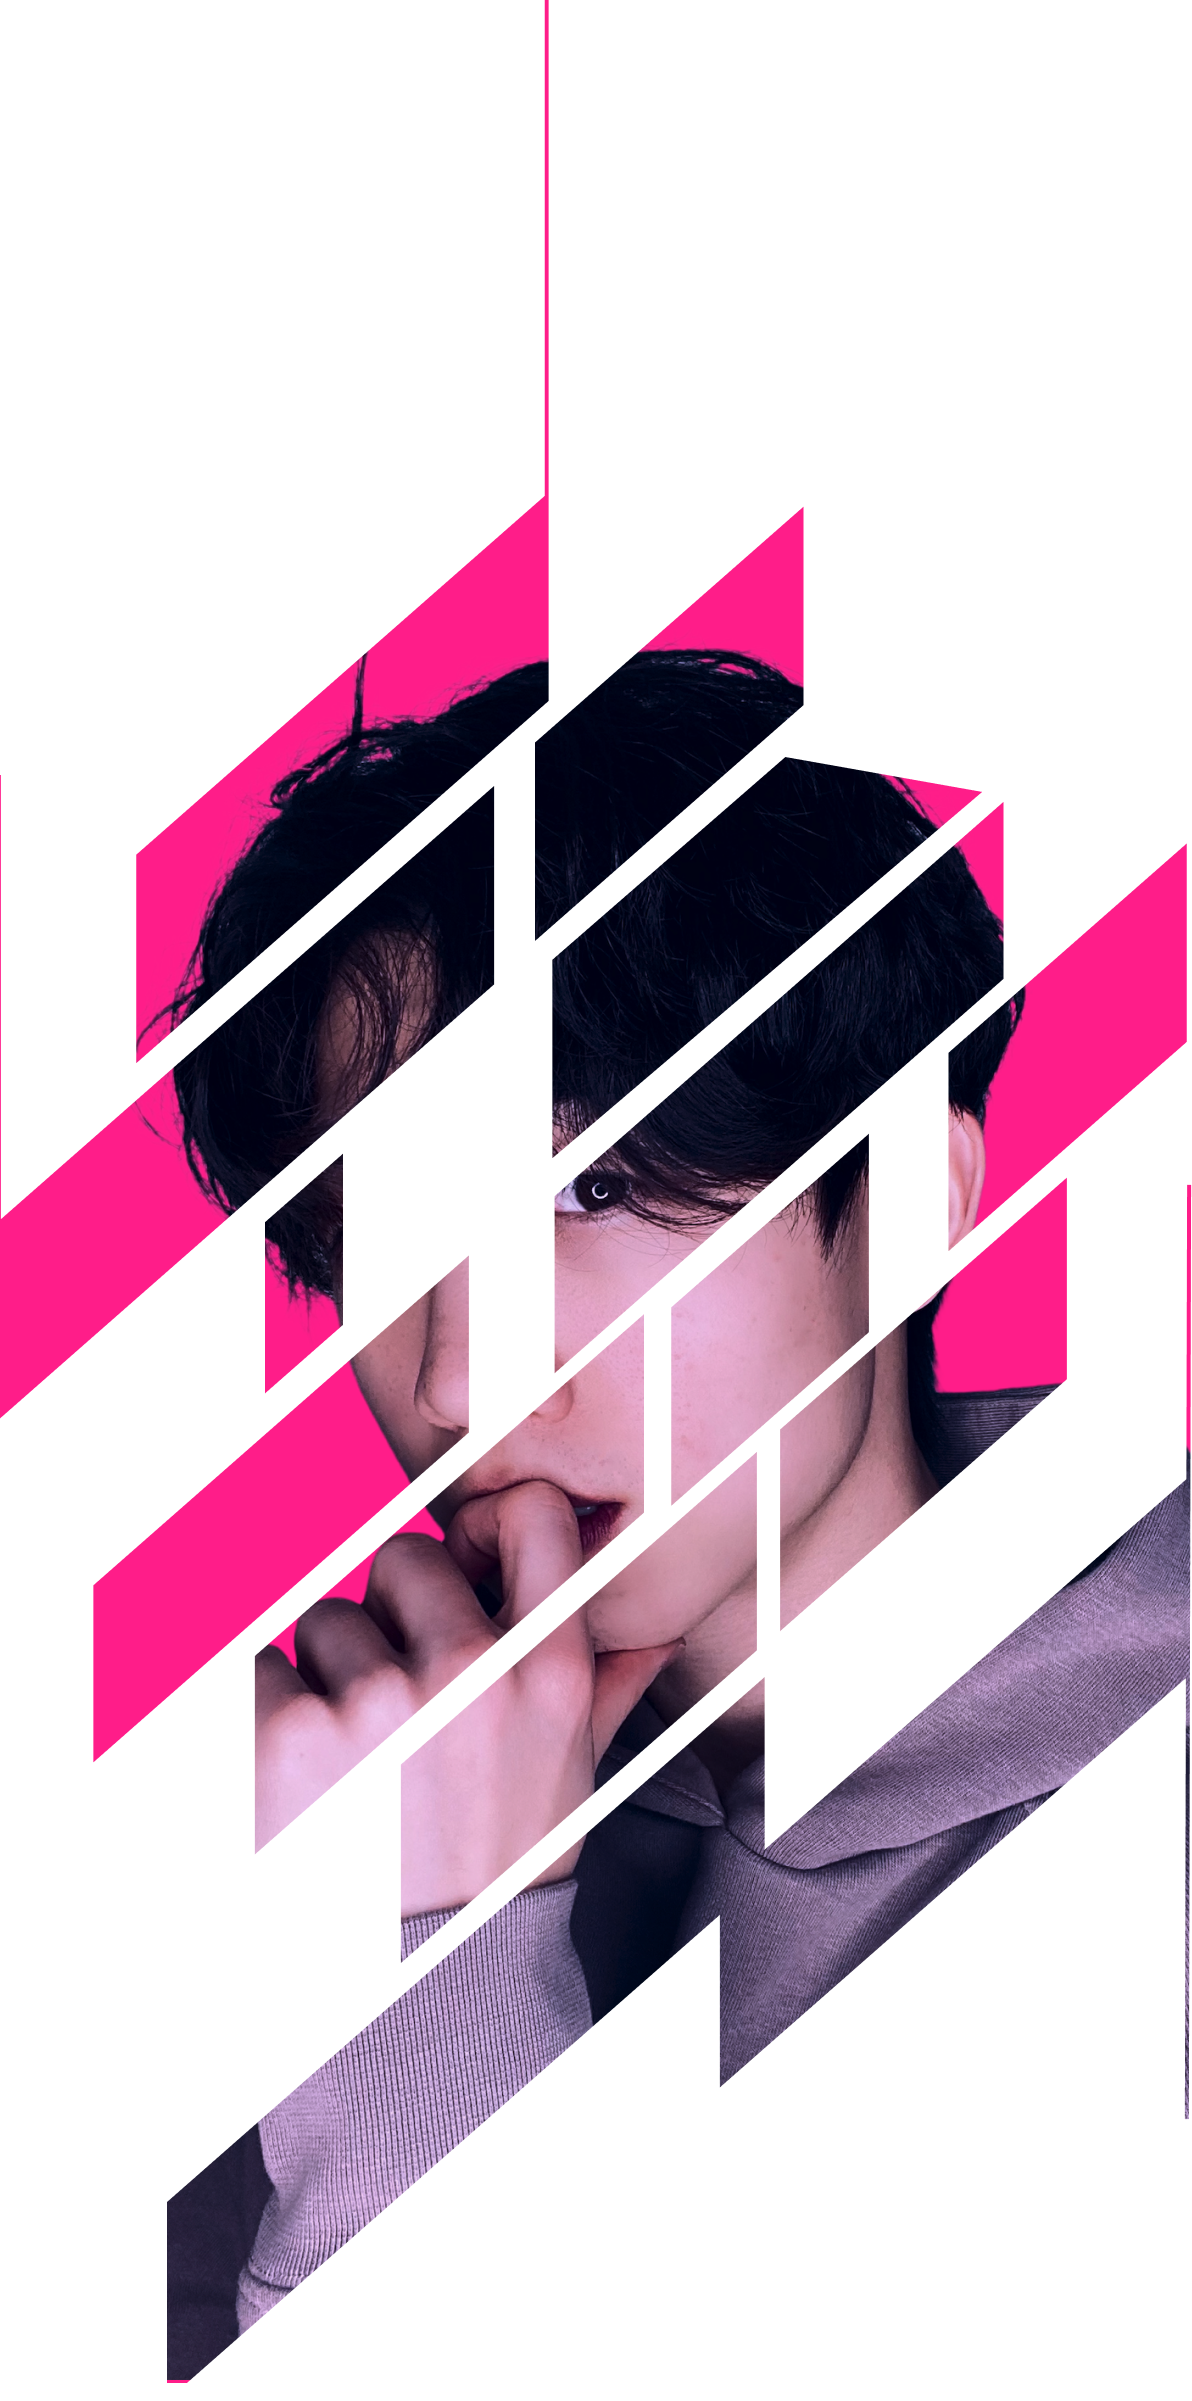
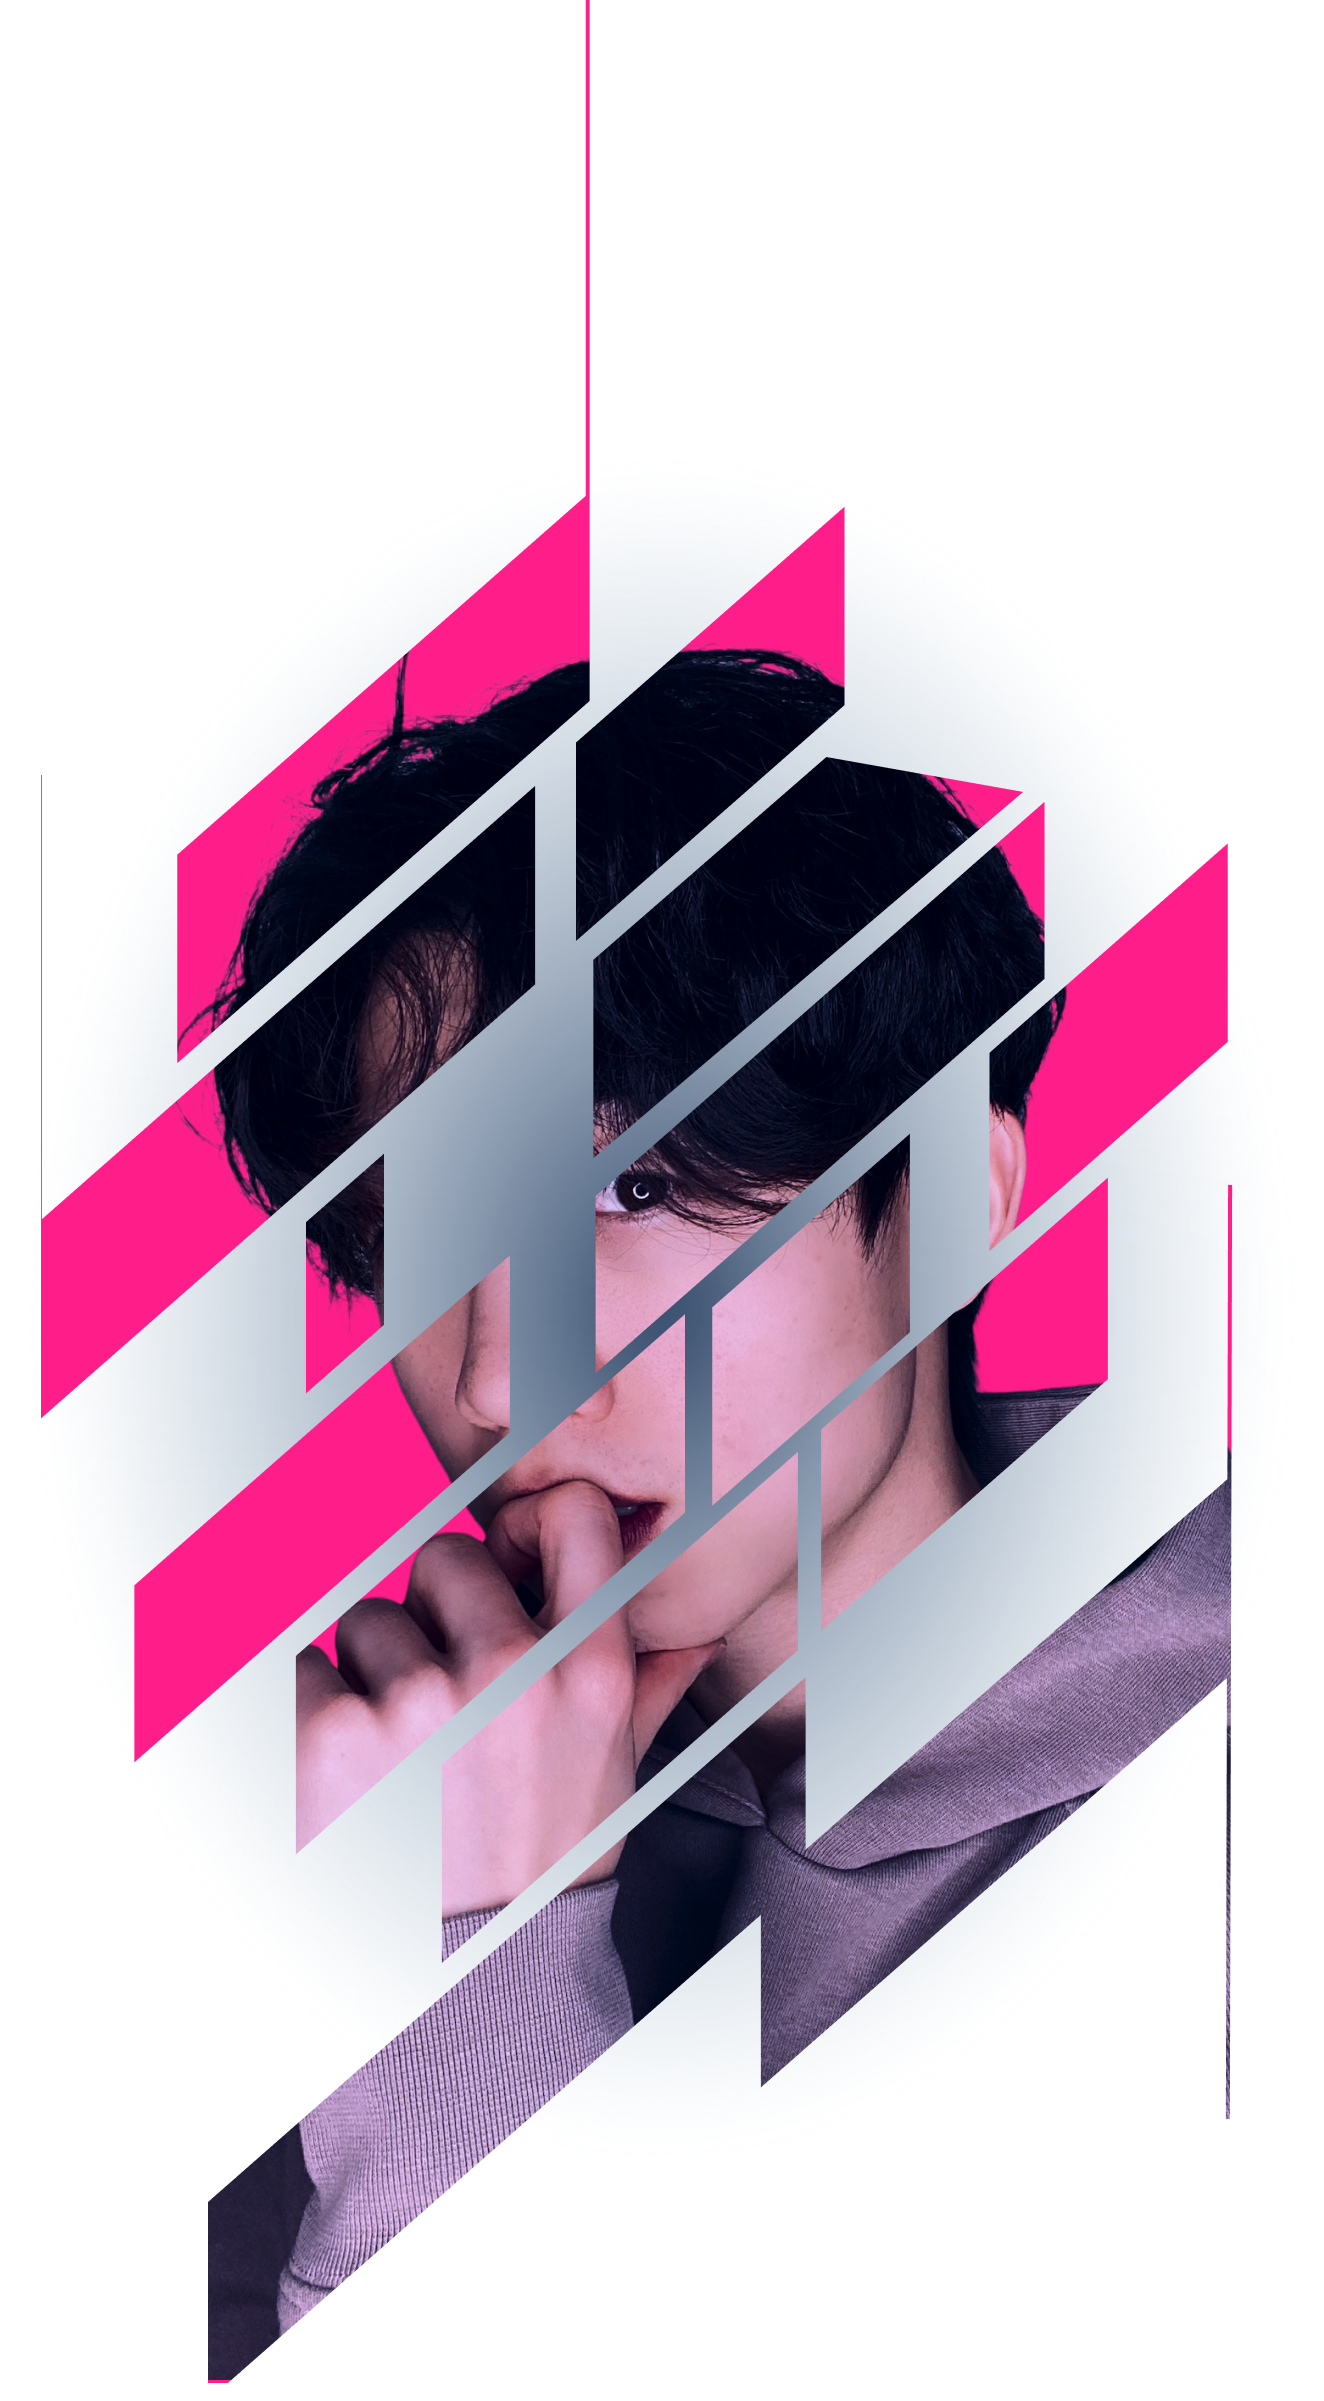
layout update

Changed region(s): [[0.0, 0.0, 1.0, 0.9996]]

diff --git a/src/pages/About/styled.js b/src/pages/About/styled.js
@@ -11,18 +11,19 @@ export const Frame = styled.div`
     position: relative;
     width: min(40%, 700px);
     height: 100%;
+    overflow: show;
 
     img {
 
         position: absolute;
-        height: 100vh;
+        height: min(100vh, calc(80vh + 10vw));
         width: 100%;
         top: -30%;
         object-fit: cover;
         transition: all 1s;
         opacity: 1;
     }
-    ::before {
+    /* ::before {
         content: '';
         background: url('${halo}');
         background-size: contain;
@@ -33,7 +34,7 @@ export const Frame = styled.div`
         left: -10%;
         top: 0;
 
-    }
+    } */
     :hover > img {
         /* transform: rotateY(60deg); */
         opacity: 1;
